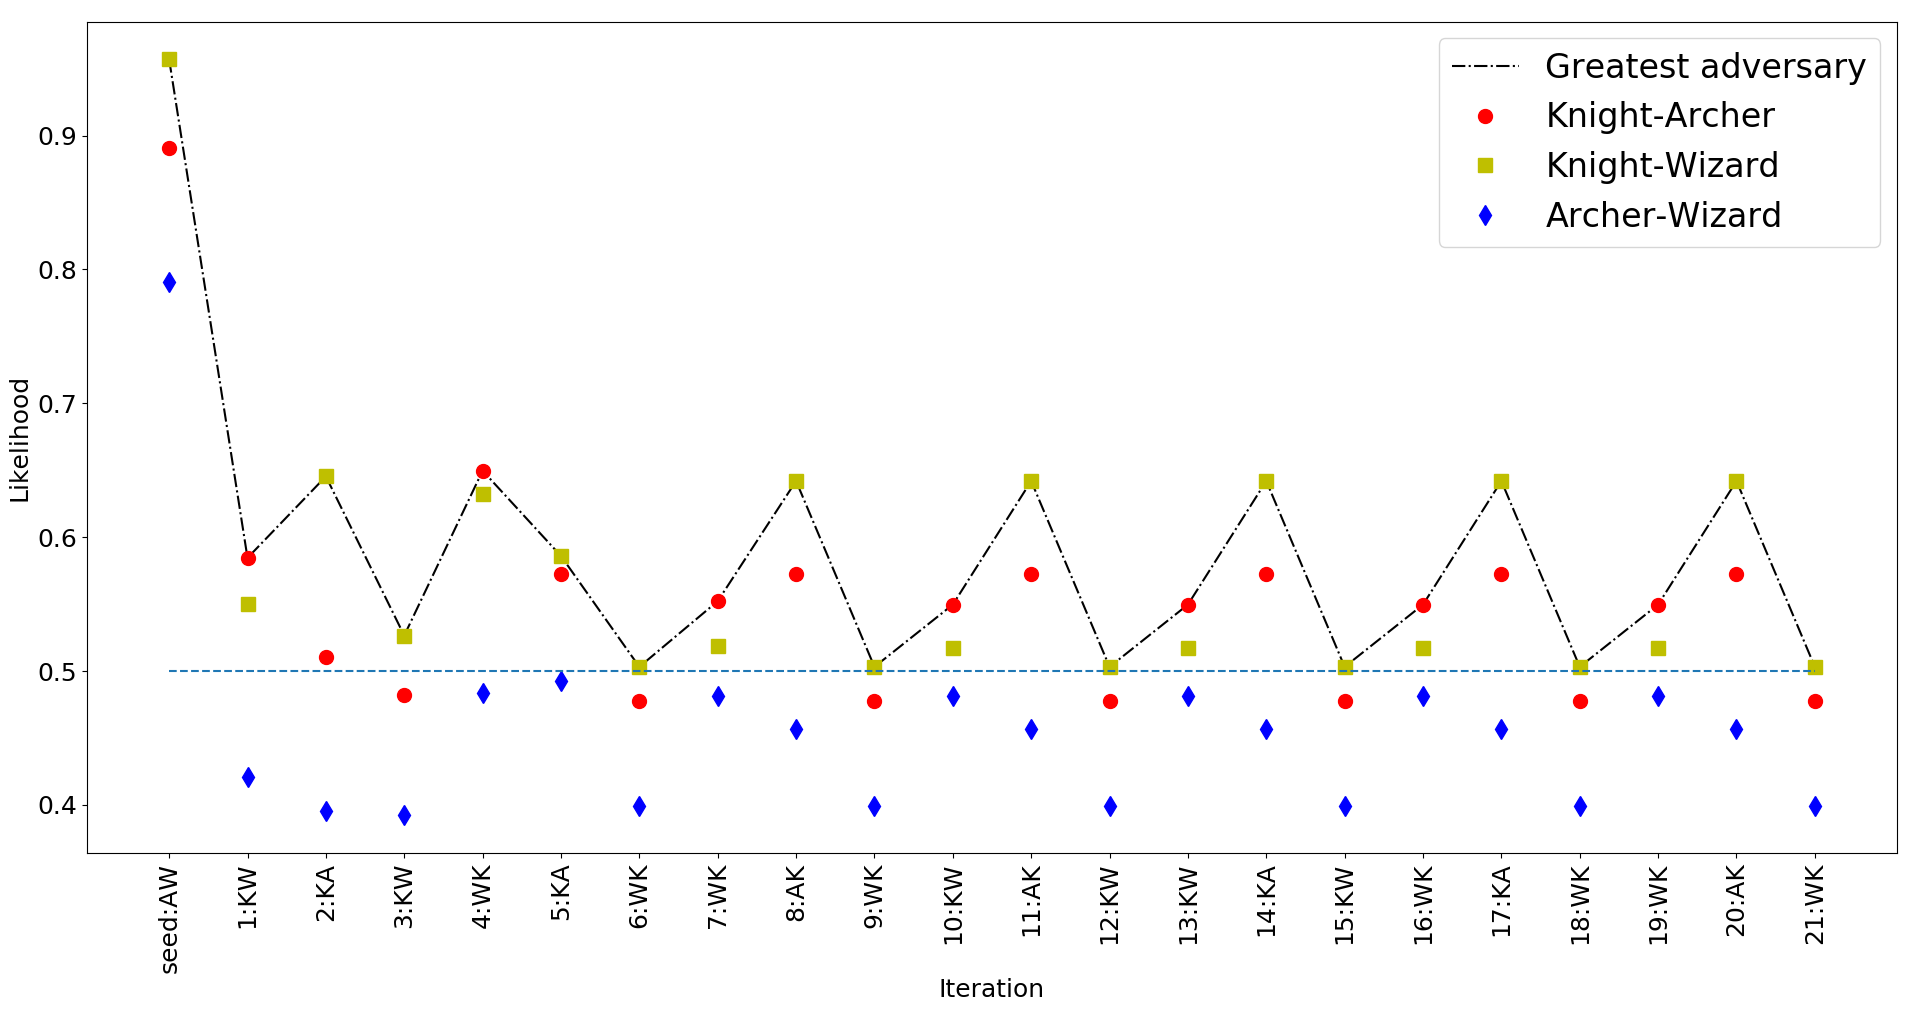
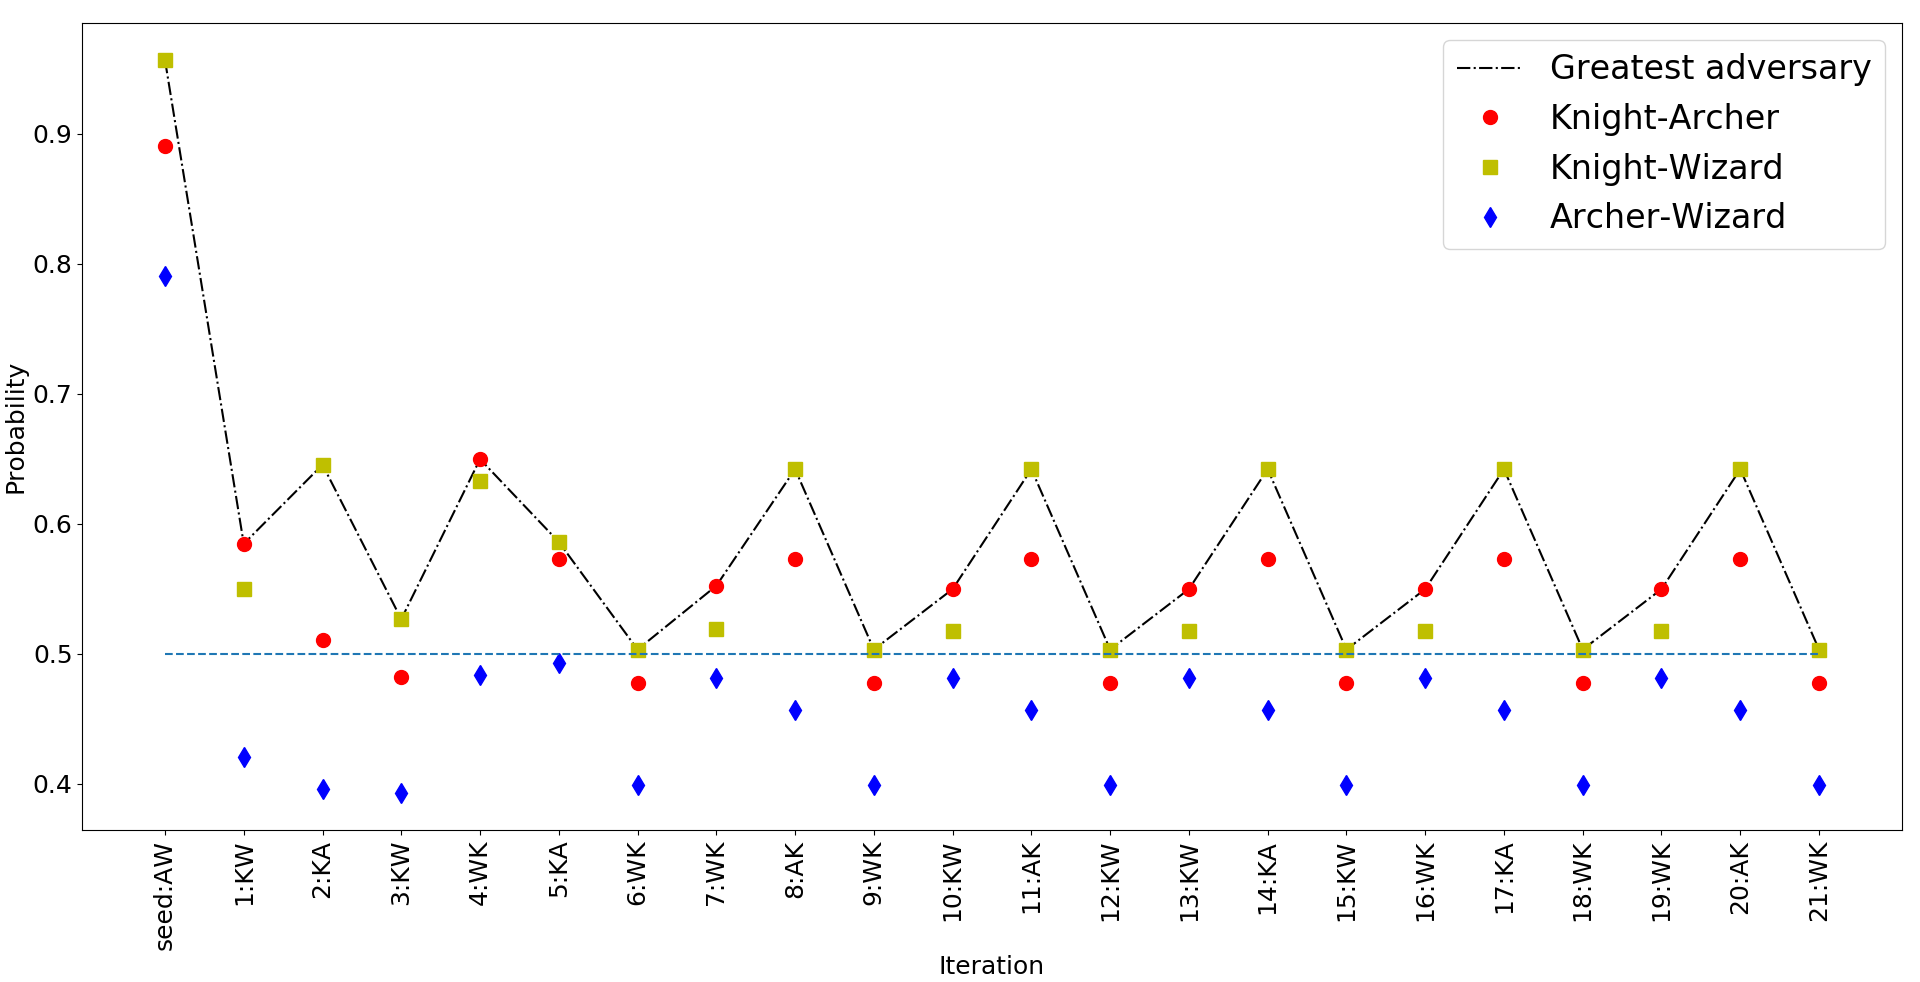
final graphic generation - 3rd draft

diff --git a/find_dominated_material.py b/find_dominated_material.py
@@ -48,23 +48,23 @@ config = sys.argv[1]
 output_destination = sys.argv[2]
 on_sand = sys.argv[3]
 
-pairs = ["KA","KW","AW"]                                                    # All material choices for a player
-chosen_seed_pair = random.choice(pairs)                                     # Choose one pair for the seed
-sys.stdout = open(output_destination + "/seed_strat.txt", "w")              # Generate some seed strategy
-stochastic_strat.run("KA"+chosen_seed_pair, 2, config)                      # Current using stochastic seed, naive could be used here (opposing pair is irrelevant)
+pairs = ["KA","KW","AW"]                                                        # All material choices for a player
+chosen_seed_pair = random.choice(pairs)                                         # Choose one pair for the seed
+sys.stdout = open(output_destination + "/seed_strat.txt", "w")                  # Generate some seed strategy
+stochastic_strat.run("KA"+chosen_seed_pair, 2, config)                          # Current using stochastic seed, naive could be used here (opposing pair is irrelevant)
 sys.stdout = sys.__stdout__
 print("Seed strategy generated for: " + chosen_seed_pair + ", finding adversarial \
 probability for all opposing pairs (this takes about a minute)")
-max_likelihood = 0.0                                                        # Value for highest adversarial likelihood
-best_opponent = chosen_seed_pair                                            # Identity for pair with highest adversarial likelihood
-for pair in pairs:                                                          # For each ordering of each pair
+max_likelihood = 0.0                                                            # Value for highest adversarial likelihood
+best_opponent = chosen_seed_pair                                                # Identity for pair with highest adversarial likelihood
+for pair in pairs:                                                              # For each ordering of each pair
     results = {}
-    for ordering in [pair, pair[1]+pair[0]]:                                # Calculate the adversary against the seed strategy
+    for ordering in [pair, pair[1]+pair[0]]:                                    # Calculate the adversary against the seed strategy
         characters = ordering + chosen_seed_pair
         sys.stdout = open(output_destination + "/seed_v_" + ordering + ".prism", "w")
         prefix.run(characters, 0, 0, config)
         free_strat.run(characters, 1)
-        print(open(output_destination + "/seed_strat.txt", "r").read())     # Copy in the adversary
+        print(open(output_destination + "/seed_strat.txt", "r").read())         # Copy in the adversary
         suffix.run(characters,0)
         sys.stdout = sys.__stdout__
         os.system("prism " + output_destination + "/seed_v_" + ordering + ".prism \
@@ -72,7 +72,7 @@ for pair in pairs:                                                          # Fo
         result_vs_seed = float(find_result(output_destination+ "/log.txt"))
         print("Against the seed strategy, " + ordering + " has an adversarial probability of: " + str(result_vs_seed))
         results[ordering] = result_vs_seed
-    if min(results.values()) > max_likelihood:                              # FIND_MAX with min P of each pair
+    if min(results.values()) > max_likelihood:                                  # FIND_MAX with min P of each pair
         max_likelihood = min(results.values())
         best_opponent = min(results, key = results.get)
 print("Best opponent found to be: " + best_opponent + ", generating strategy")

diff --git a/compare_for_single_conf.py b/compare_for_single_conf.py
@@ -51,6 +51,7 @@ def plot_result(file):
 
     for m in ["KA","KW","AW"]:                                                  # fill material dictionaries
         mat_to_result[m][1]["robustness"] = np.mean(mat_to_result[m][0][first_rel:])
+        """
         over_point_5 = []
         under_point_5 = []
         for res in mat_to_result[m][0][first_rel:]:
@@ -60,6 +61,15 @@ def plot_result(file):
         else: mat_to_result[m][1]["win_d"] = 0.0
         if len(under_point_5) > 0: mat_to_result[m][1]["loss_d"] = np.mean(under_point_5)
         else: mat_to_result[m][1]["loss_d"] = 0.0
+        """
+        over_point_5 = [x - 0.5 for x in mat_to_result[m][0][first_rel:] if x > 0.5]      # distance of all points above 0.5 or 0 if below
+        for padding in range(len(mat_to_result[m][0][first_rel:])-len(over_point_5)):
+            over_point_5 += [0.0]
+        under_point_5 = [0.5 - x for x in mat_to_result[m][0][first_rel:] if x < 0.5]     # same for below
+        for padding in range(len(mat_to_result[m][0][first_rel:])-len(under_point_5)):
+            under_point_5 += [0.0]
+        mat_to_result[m][1]["win_d"] = np.mean(over_point_5)
+        mat_to_result[m][1]["loss_d"] = np.mean(under_point_5)
 
     outplays = []                                                                   # calculate outplay potential
     for it in range(first_rel, l-1):
@@ -92,10 +102,13 @@ x = ["seed"] + [range(1,max_l)]
 for d in [KA_dict, KW_dict, AW_dict]:
     for m in ["robustness", "win_d", "loss_d"]:
         d[m] = d[m] / np.sum(it_list)
-
+print("\nKA: ro, wi, lo")
 for elem in KA_dict.values(): print(elem)
+print("\nKW: ro, wi, lo")
 for elem in KW_dict.values(): print(elem)
+print("\nAW: ro, wi, lo")
 for elem in AW_dict.values(): print(elem)
+print("\nop, mu-ro")
 print(outplay_potential / np.sum(it_list))
 print(np.mean([KA_dict["robustness"], KW_dict["robustness"], AW_dict["robustness"]]))
 
@@ -108,10 +121,8 @@ for s in series_to_plt.keys():
     max_x = max(max_x, len(series_to_plt[s]))
 y_equals_05 = [0.5]*(max_x)
 ax.plot(["seed"] + list(range(1,max_x)),y_equals_05, "--",)
-plt.xlabel('Iteration')
-plt.ylabel('Maximal Likelihood')
 plt.tick_params(labelsize=18)
 plt.xlabel('Iteration', fontsize=18)
-plt.ylabel('Likelihood', fontsize=18)
+plt.ylabel('Probability', fontsize=18)
 legend = ax.legend(fontsize=28)
 plt.show()

diff --git a/results_as_graph.py b/results_as_graph.py
@@ -68,7 +68,7 @@ ax.plot(x[:-1],AW, "bd", label="Archer-Wizard", markersize=10)
 ax.plot(x[:-1],y_equals_05, "--",)
 plt.tick_params(labelsize=18)
 plt.xlabel('Iteration', fontsize=18)
-plt.ylabel('Likelihood', fontsize=18)
+plt.ylabel('Probability', fontsize=18)
 legend = ax.legend(fontsize=24)
 plt.xticks(rotation='vertical')
 plt.show()
